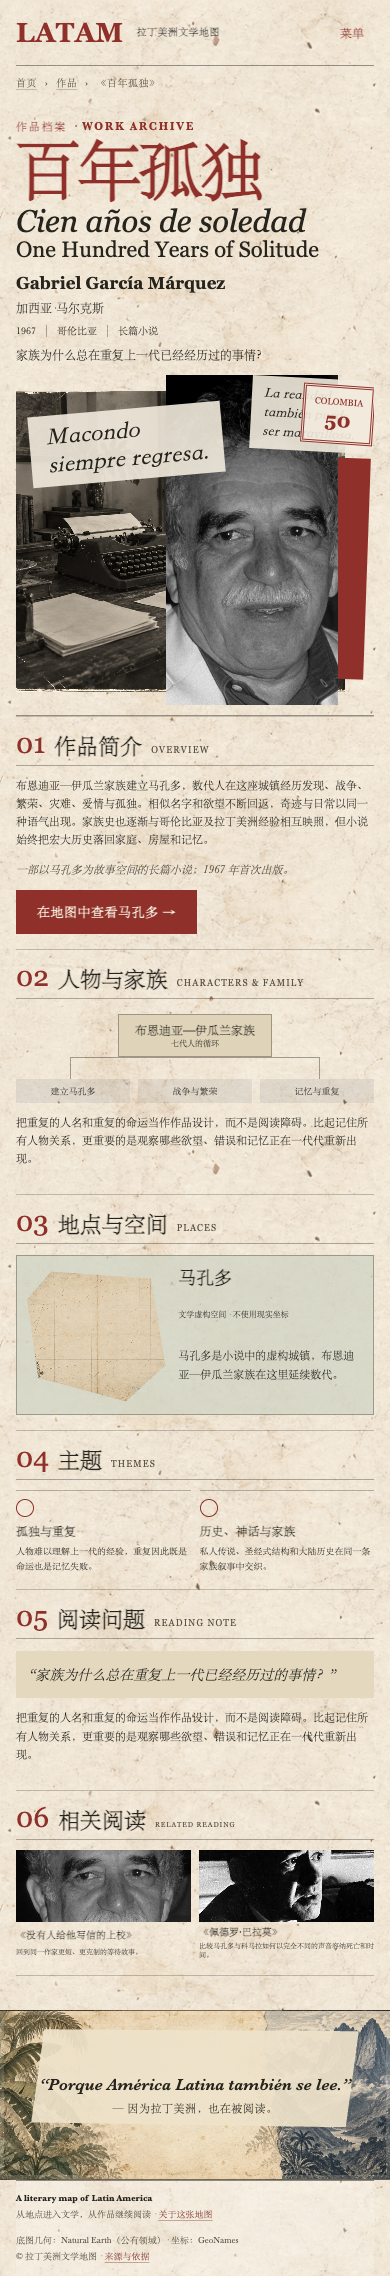
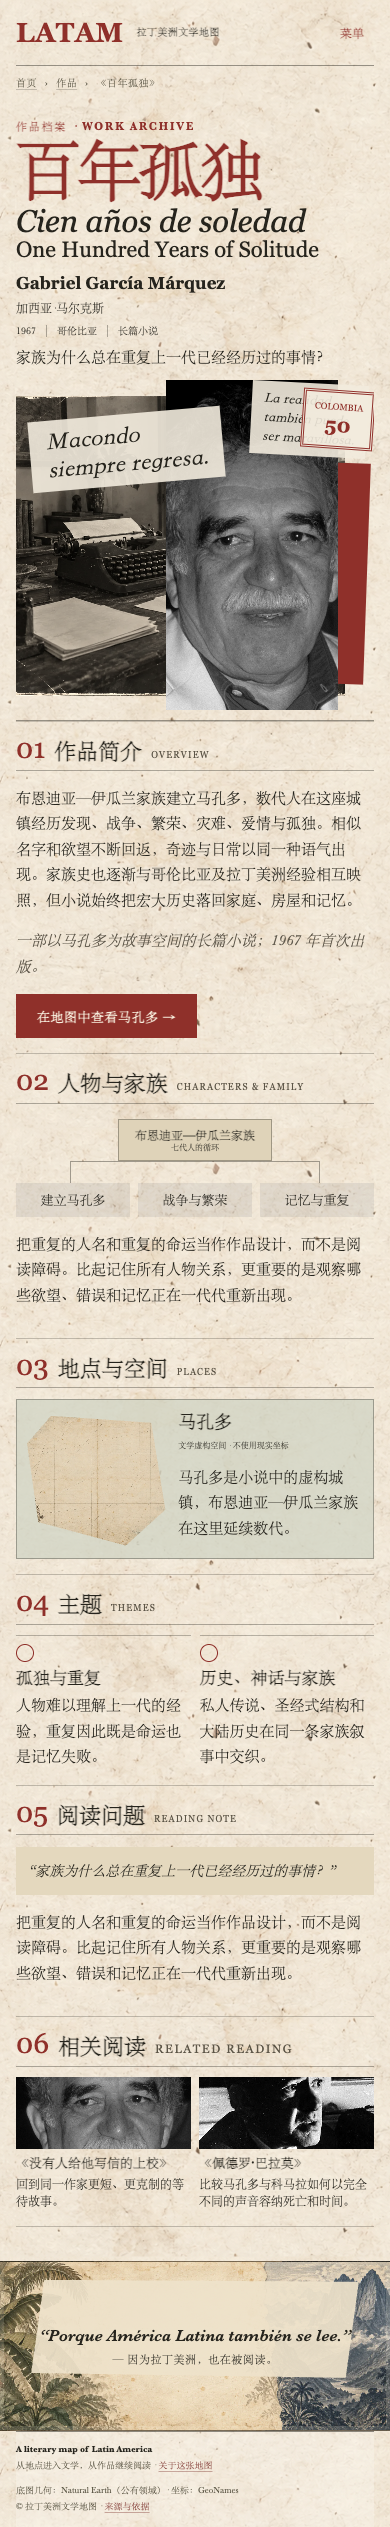
feat(wcd-11): 增加文学阶段筛选并改善正文排版
将作家趣闻改为通栏，放大候选页正文与时间线卡片；扩展浏览器断言并更新桌面／手机截图。Refs: TASK-128。

diff --git a/previews/wcd-11/imagery/master-pages.js b/previews/wcd-11/imagery/master-pages.js
@@ -354,25 +354,51 @@
       .sort((a, b) => Number(String(a.year).match(/\d{4}/)?.[0] || 9999) - Number(String(b.year).match(/\d{4}/)?.[0] || 9999));
   }
 
+  // These are browsing windows, not claims that an author or work belongs to a movement.
+  function timelineStage(year) {
+    const firstYear = Number(String(year).match(/\d{4}/)?.[0] || 0);
+    if (firstYear < 1900) return "early";
+    if (firstYear < 1960) return "modern";
+    if (firstYear < 1980) return "boom";
+    return "contemporary";
+  }
+
   function renderTimeline() {
     const entries = timelineItems();
     setMeta("时间线", "一部文学的大陆编年史。");
     activate("timeline");
     app().innerHTML = `
       <header class="master-timeline-hero"><div><h1>时间线</h1><p>TIMELINE</p></div><div><h2>一部文学的大陆编年史</h2><em>A Literary Chronicle<br />of a Continent</em><p>从作品、作家与历史相遇的时刻进入拉丁美洲文学。</p></div><figure><img src="${BASE}assets/backgrounds/archive-masthead-v1.webp" alt="热带植物与山脉档案拼贴" width="1667" height="604" /></figure></header>
-      <div class="timeline-toolbar"><p><b>筛选时间线</b><small>FILTER TIMELINE</small></p><div role="group" aria-label="按类型筛选时间线"><button type="button" data-timeline-filter="all" aria-pressed="true">全部 ${entries.length}</button><button type="button" data-timeline-filter="literary_work" aria-pressed="false">作品 / 出版 ${entries.filter((item) => item.kind === "literary_work").length}</button><button type="button" data-timeline-filter="literary_author" aria-pressed="false">作家生平 ${entries.filter((item) => item.kind === "literary_author").length}</button></div><a class="master-button" href="${BASE}#literary-map">探索地图视图 →</a></div>
-      <div class="timeline-legend"><span><i></i>完整公开编年：${entries.length} 条</span><blockquote>“La literatura también es una forma de habitar el mundo.”</blockquote></div>
+      <div class="timeline-toolbar"><p><b>筛选时间线</b><small>FILTER TIMELINE</small></p><div role="group" aria-label="按类型筛选时间线"><button type="button" data-timeline-filter="all" aria-pressed="true">全部 ${entries.length}</button><button type="button" data-timeline-filter="literary_work" aria-pressed="false">作品 / 出版 ${entries.filter((item) => item.kind === "literary_work").length}</button><button type="button" data-timeline-filter="literary_author" aria-pressed="false">作家生平 ${entries.filter((item) => item.kind === "literary_author").length}</button></div><label class="timeline-stage-filter">文学阶段<select id="timeline-stage" aria-describedby="timeline-stage-note"><option value="all">全部阶段</option><option value="early">早期文脉 · 1900 年以前</option><option value="modern">现代写作 · 1900–1959</option><option value="boom">文学爆炸时期 · 1960–1979</option><option value="contemporary">当代及延伸 · 1980 年后</option></select></label><a class="master-button" href="${BASE}#literary-map">探索地图视图 →</a></div>
+      <div class="timeline-legend"><span id="timeline-result-count" aria-live="polite"><i></i>当前显示 ${entries.length} / ${entries.length} 条</span><small id="timeline-stage-note">文学阶段按事件起始年／作品首版年分段，仅供年代浏览，不代表文学运动归属。</small><blockquote>“La literatura también es una forma de habitar el mundo.”</blockquote></div>
+      <p class="timeline-empty" hidden>这个组合暂无公开记录，请尝试其他阶段或类型。</p>
       <section class="horizontal-timeline" style="--timeline-count:${entries.length}" aria-label="横向文学时间线">${entries.map((entry, index) => {
         const creator = entry.kind === "literary_author" ? entry.id : D.createdBy?.[entry.id];
         const target = entity(entry.id);
         const note = entry.kind === "literary_author" ? reader("authors", entry.id).reader_lede : reader("works", entry.id).reading_premise;
-        return `<article data-timeline-kind="${esc(entry.kind)}" class="timeline-card ${index === Math.floor(entries.length / 2) ? "featured" : ""}"><time>${esc(entry.year)}</time><i class="timeline-dot"></i><a href="${route(entry.id)}"><span class="timeline-cover">${creator ? portraitHtml(creator, "", "", false) : `<b>${esc(target?.name?.replace(/[《》\s]/g, "").charAt(0) || "文")}</b>`}<em>${esc(target?.name || entry.name)}</em></span><h3>${esc(entry.name)}</h3><p>${entry.kind === "literary_author" ? "作家生平" : esc(entity(creator)?.name || card(entry.id).country || "拉丁美洲文学")}</p><small>${esc(note || (entry.kind === "literary_author" ? "沿生平与作品进入文学史。" : "作品首次出版或发表。"))}</small></a></article>`;
+        return `<article data-timeline-kind="${esc(entry.kind)}" data-timeline-stage="${timelineStage(entry.year)}" class="timeline-card ${index === Math.floor(entries.length / 2) ? "featured" : ""}"><time>${esc(entry.year)}</time><i class="timeline-dot"></i><a href="${route(entry.id)}"><span class="timeline-cover">${creator ? portraitHtml(creator, "", "", false) : `<b>${esc(target?.name?.replace(/[《》\s]/g, "").charAt(0) || "文")}</b>`}<em>${esc(target?.name || entry.name)}</em></span><h3>${esc(entry.name)}</h3><p>${entry.kind === "literary_author" ? "作家生平" : esc(entity(creator)?.name || card(entry.id).country || "拉丁美洲文学")}</p><small>${esc(note || (entry.kind === "literary_author" ? "沿生平与作品进入文学史。" : "作品首次出版或发表。"))}</small></a></article>`;
       }).join("")}</section>`;
+    const stageSelect = app().querySelector("#timeline-stage");
+    const timeline = app().querySelector(".horizontal-timeline");
+    const cards = [...timeline.querySelectorAll("[data-timeline-kind]")];
+    const updateTimeline = () => {
+      const kind = app().querySelector('[data-timeline-filter][aria-pressed="true"]').dataset.timelineFilter;
+      const stage = stageSelect.value;
+      let visible = 0;
+      cards.forEach((item) => {
+        item.hidden = (kind !== "all" && item.dataset.timelineKind !== kind) || (stage !== "all" && item.dataset.timelineStage !== stage);
+        if (!item.hidden) visible += 1;
+      });
+      timeline.style.setProperty("--timeline-count", String(Math.max(1, visible)));
+      app().querySelector("#timeline-result-count").innerHTML = `<i></i>当前显示 ${visible} / ${entries.length} 条`;
+      app().querySelector(".timeline-empty").hidden = visible > 0;
+      timeline.scrollLeft = 0;
+    };
     app().querySelectorAll("[data-timeline-filter]").forEach((button) => button.addEventListener("click", () => {
-      const filter = button.dataset.timelineFilter;
       app().querySelectorAll("[data-timeline-filter]").forEach((item) => item.setAttribute("aria-pressed", String(item === button)));
-      app().querySelectorAll("[data-timeline-kind]").forEach((item) => { item.hidden = filter !== "all" && item.dataset.timelineKind !== filter; });
+      updateTimeline();
     }));
+    stageSelect.addEventListener("change", updateTimeline);
   }
 
   function renderAbout() {

diff --git a/previews/wcd-11/styles/master.css b/previews/wcd-11/styles/master.css
@@ -733,3 +733,127 @@ body[data-master="home"] .clip-copy h3 { color: #f3e7cf; }
   .master-search-results section > div { grid-template-columns: 1fr; }
   .edition-cover { left: 7%; width: 48%; }
 }
+
+/* Reader-size pass: keep the archival hierarchy, but make narrative copy readable. */
+body[data-master="home"] .path-item p,
+body[data-master="home"] .clip-copy > p:not(.meta),
+.master-intro,
+.master-author-spread p,
+.master-work-spread p,
+.featured-story p,
+.clipping-grid p,
+.about-cell p,
+.about-cell li,
+.master-catalog-card > div > span { font-size: 15px; line-height: 1.7; }
+body[data-master="home"] .writer-item p,
+.master-catalog-card small,
+.catalog-toolbar p,
+.master-search-results a small,
+.place-ledger small,
+.work-related small { font-size: 12px; line-height: 1.45; }
+body[data-master="home"] .writer-item h3 { font-size: 16px; }
+body[data-master="home"] .clip-copy h3 { font-size: 21px; }
+.master-author-spread .master-kicker,
+.master-work-spread .master-kicker { font-size: 13px; }
+.master-author-spread .book-stack b,
+.place-ledger b,
+.theme-ledger h3,
+.why-ledger h3,
+.anecdote-ledger h3,
+.work-themes article b { font-size: 17px; line-height: 1.4; }
+.book-stack a > span:last-child > small,
+.work-related b,
+.master-author-places li,
+.family-nodes span,
+.about-cell summary { font-size: 13px; line-height: 1.5; }
+.anecdote-ledger article > p,
+.anecdote-ledger details > div,
+.work-themes article p { font-size: 15px; line-height: 1.7; }
+.anecdote-ledger summary { font-size: 14px; }
+.anecdote-ledger details > small { font-size: 12px; }
+.master-work-copy blockquote,
+.master-timeline-hero > div:nth-child(2) p { font-size: 15px; line-height: 1.6; }
+.clipping-grid h3 { font-size: 18px; }
+.archive-notes > header p,
+.archive-notes > header a,
+.featured-story a { font-size: 14px; }
+.master-catalog-card h2 { font-size: 24px; }
+.master-search-results a b { font-size: 16px; }
+.horizontal-timeline { grid-template-columns: repeat(var(--timeline-count,8),minmax(244px,1fr)); min-height: 500px; }
+.timeline-card { padding-inline: 14px; }
+.timeline-card h3 { font-size: 17px; line-height: 1.35; }
+.timeline-card p { font-size: 13px; line-height: 1.45; }
+.timeline-card > a > small { font-size: 14px; line-height: 1.55; }
+.timeline-cover em { font-size: 13px; }
+.timeline-toolbar { grid-template-columns: 16% minmax(290px,1fr) minmax(200px,270px) auto; gap: 14px; }
+.timeline-toolbar p b { font-size: 18px; }
+.timeline-toolbar button { min-height: 43px; font-size: 14px; }
+.timeline-stage-filter { display: grid; gap: 5px; font: 600 14px/1.2 var(--serif); }
+.timeline-stage-filter select { width: 100%; min-height: 43px; padding: 0 9px; border: 1px solid rgba(38,36,29,.4); color: var(--master-ink); background: rgba(251,248,241,.75); font: 500 14px/1.2 var(--serif); }
+.timeline-legend { flex-wrap: wrap; }
+.timeline-legend span { font-size: 14px; }
+.timeline-legend > small { max-width: 47ch; color: #655d50; font-size: 12px; line-height: 1.4; }
+.timeline-empty { padding: 28px 0; font-size: 16px; }
+.timeline-empty[hidden] { display: none; }
+/* Exploration routes share the same paper, so their explanatory copy should
+   not revert to the pre-editorial 12–13px reading scale. */
+.map-context-panel .desc,
+.place-card p,
+.research-body .why,
+.catalog-row .lede,
+.path-card p,
+.anecdote-entry p.teaser { font-size: 15px; line-height: 1.7; }
+
+/* Four balanced author columns, then an independent full-width story ledger. */
+.master-author-spread {
+  grid-template-columns: 27% 24% 23% 26%;
+  grid-template-areas:
+    "biography works places connections"
+    "anecdote anecdote anecdote anecdote";
+}
+.master-author-spread > section:nth-child(4) { border-right: 0; }
+.master-author-spread > .master-author-anecdote {
+  margin-top: 22px;
+  padding: 18px 0 0;
+  border-top: 1px solid rgba(38,36,29,.4);
+  border-right: 0;
+}
+.master-profile-spread .master-author-anecdote { margin-top: 22px; }
+.anecdote-ledger { grid-template-columns: repeat(3,minmax(0,1fr)); gap: 18px 24px; }
+.anecdote-ledger article { padding: 14px 18px 4px 0; border-right: 1px solid rgba(38,36,29,.22); }
+.anecdote-ledger article:nth-child(3n) { border-right: 0; }
+
+@media (max-width: 1100px) {
+  .master-author-spread { grid-template-columns: repeat(2,minmax(0,1fr)); grid-template-areas: "biography works" "places connections" "anecdote anecdote"; }
+  .master-author-spread > .master-biography { grid-area: biography; }
+  .master-author-spread > .master-key-works { grid-area: works; }
+  .master-author-spread > .master-author-places { grid-area: places; }
+  .master-author-spread > .master-connections { grid-area: connections; }
+  .master-author-spread > .master-author-anecdote { grid-area: anecdote; }
+  .anecdote-ledger { grid-template-columns: repeat(2,minmax(0,1fr)); }
+  .anecdote-ledger article:nth-child(3n) { border-right: 1px solid rgba(38,36,29,.22); }
+  .anecdote-ledger article:nth-child(2n) { border-right: 0; }
+  .timeline-toolbar { grid-template-columns: 1fr minmax(200px,260px); }
+  .timeline-toolbar > p { grid-column: 1/-1; }
+  .timeline-toolbar > [role="group"] { grid-column: 1; }
+  .timeline-toolbar > .master-button { grid-column: 2; }
+}
+@media (max-width: 620px) {
+  .master-author-spread { grid-template-columns: 1fr; grid-template-areas: "biography" "works" "places" "connections" "anecdote"; }
+  .master-author-spread > section { padding: 16px 0; border-right: 0; }
+  .master-author-spread > .master-author-anecdote { margin-top: 8px; }
+  .anecdote-ledger { grid-template-columns: 1fr; }
+  .anecdote-ledger article,.anecdote-ledger article:nth-child(3n) { border-right: 0; }
+  body[data-master="home"] .path-item p,
+  body[data-master="home"] .clip-copy > p:not(.meta),
+  .master-author-spread p,
+  .master-work-spread p,
+  .featured-story p,
+  .clipping-grid p,
+  .about-cell p,
+  .about-cell li,
+  .master-catalog-card > div > span { font-size: 15px; }
+  .timeline-toolbar { grid-template-columns: 1fr; }
+  .timeline-toolbar > p,.timeline-toolbar > [role="group"],.timeline-toolbar > .master-button { grid-column: 1; }
+  .timeline-stage-filter { grid-row: auto; }
+}

diff --git a/CHANGELOG.md b/CHANGELOG.md
@@ -4,6 +4,14 @@
 
 ## [Data 1.5.0 / Web 0.5.0 — Development, Draft Preview] - 2026-09-17
 
+### TASK-128 / WCD-11 reading scale and author-layout revision
+
+- 根据 USER 对预览的复审，时间线新增按事件首年分段的文学阶段筛选（含“文学爆炸时期”），可与作家／作品类型组合；页面明示这只是年代浏览，不是文学运动归属认定。筛选结果计数、空状态及横向轨道宽度随筛选更新，87 条公开记录保持完整。
+- 提升首页、作家、作品、趣闻、时间线、搜索、About 及探索卡片的叙事正文尺寸；时间线卡片与表单控件同步放大。作家页 01–04 保持协调列，05 趣闻改为下方通栏并在桌面／平板／手机响应式排版，消除单列趣闻造成的大片空白。
+- 浏览器回归新增阶段组合筛选、作家五板块位置与字号断言，48/48 PASS；11 类代表页面桌面／手机截图 22/22 PASS。变更仅限 `previews/wcd-11/` 候选展示与检查工具，正式 `site/`、数据、版本与发布门禁不变；Draft PR #36 仍待 USER 视觉确认。
+
+## [Data 1.5.0 / Web 0.5.0 — Development, Draft Preview] - 2026-09-17
+
 ### TASK-128 / WCD-11 warm-ivory paper revision
 
 - 根据 USER 对初版生成纸纹“太黄”的反馈，新生成并登记项目自有暖白档案纸底纹 `AST-035`，保留细纤维与轻微旧痕；以新资源替换候选预览母版与其余路由的活动纸纹，不覆盖原有羊皮纸资产，便于回退。

diff --git a/previews/wcd-11/README.md b/previews/wcd-11/README.md
@@ -56,6 +56,14 @@ Current scope:
 - nautical map plate with the existing interactive geography rendered above it;
 - licensed author portraits and project-owned editorial imagery;
 - larger reading-path typography and author portraits on the home page;
+- a 15px narrative-copy floor across the editorial templates and exploration
+  cards, with larger timeline card titles and descriptions;
+- author detail sections 01–04 in a balanced desktop row, followed by a
+  full-width, responsive 05 anecdote ledger;
+- a composable timeline type + literary-stage filter. Stage windows use the
+  event's first year (for authors, the beginning of the displayed life span;
+  for works, first publication), and are navigation aids rather than claims
+  of literary-movement membership;
 - muted anecdote red with WCAG-level text contrast;
 - desktop/mobile static routes, including direct `file://` navigation compatibility;
 - asset provenance in `ASSET_REGISTER.csv`.
